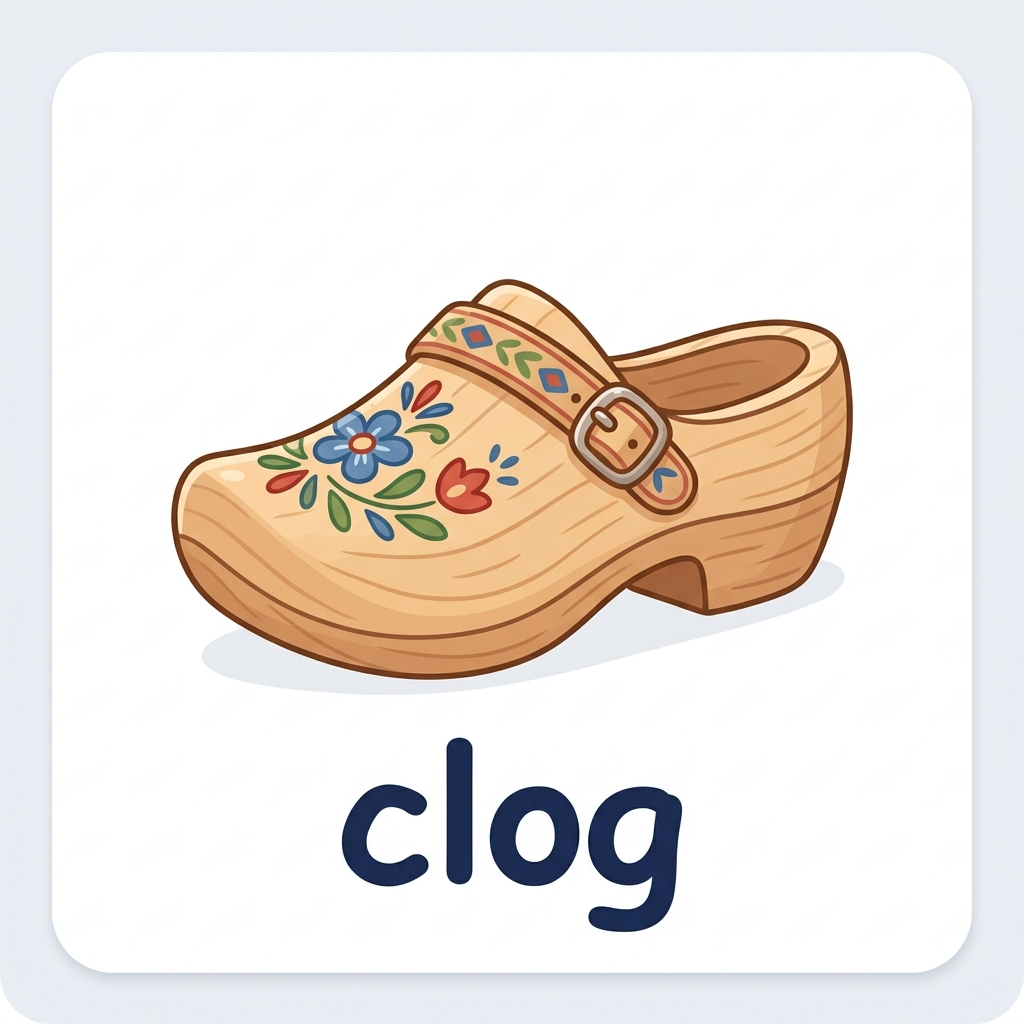
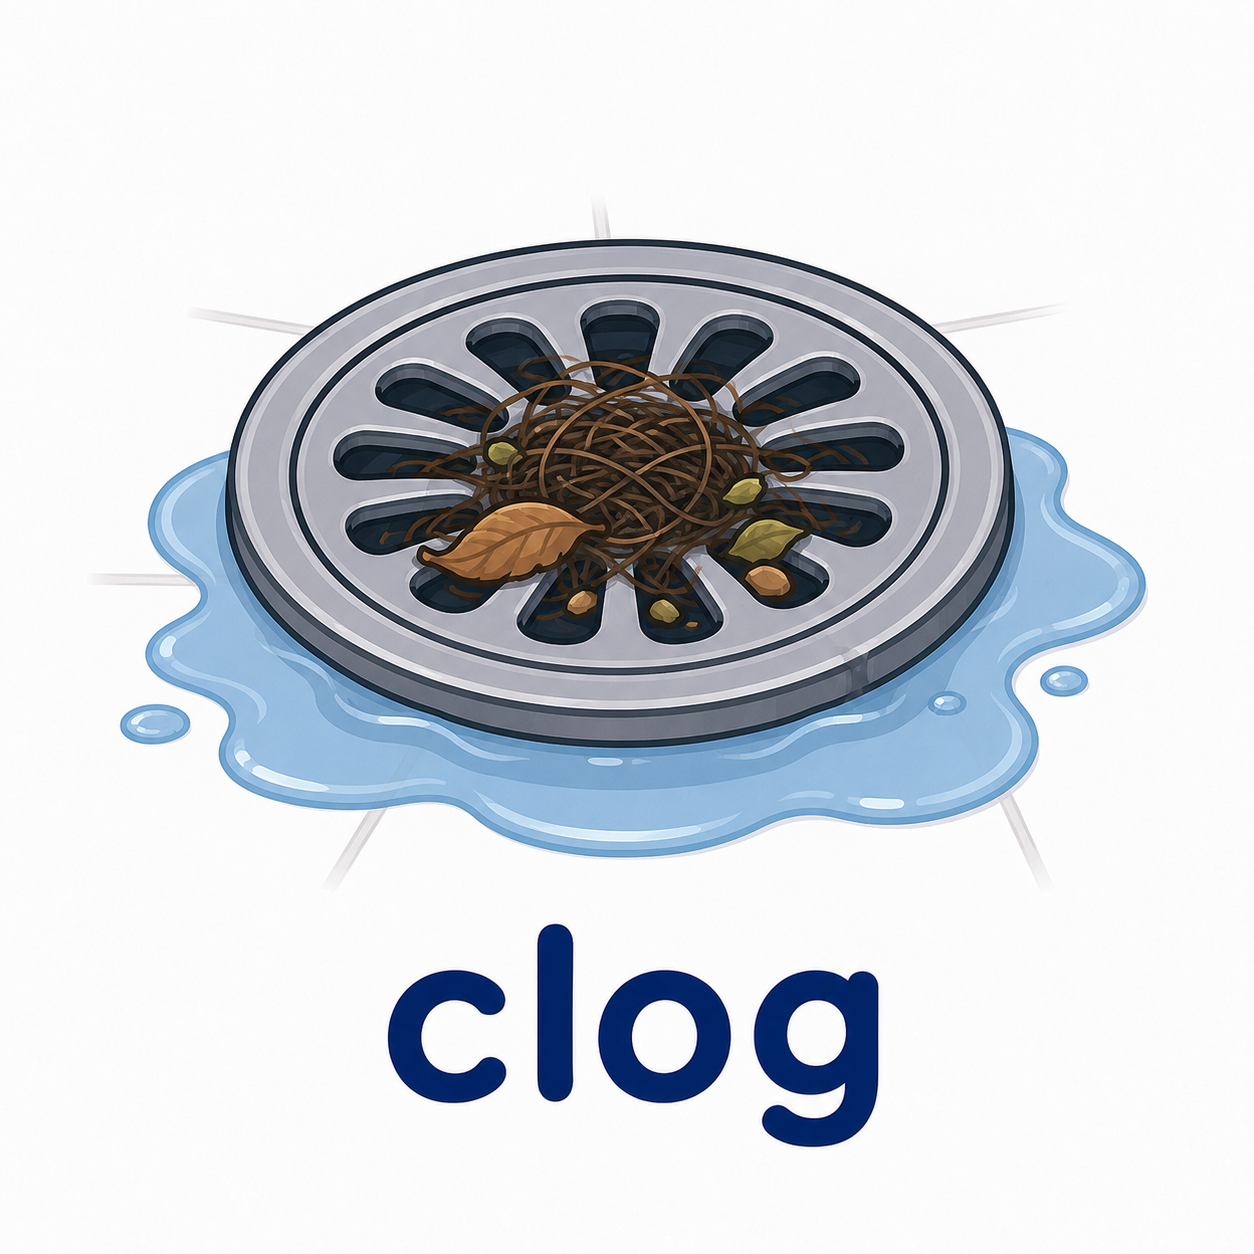
Add BIP-39 flashcard images and update generation status

diff --git a/genwords.md b/genwords.md
@@ -7,9 +7,9 @@
 ## 📊 สถานะปัจจุบัน (Current Status)
 
 - **Official BIP-39 Words (3-4 letters):** 545 คำ
-- **Generated Images:** 77 รูป
-- **Remaining:** 468 รูป
-- **Progress:** `77 / 545` (14%)
+- **Generated Images:** 94 รูป
+- **Remaining:** 451 รูป
+- **Progress:** `94 / 545` (17%)
 
 ---
 
